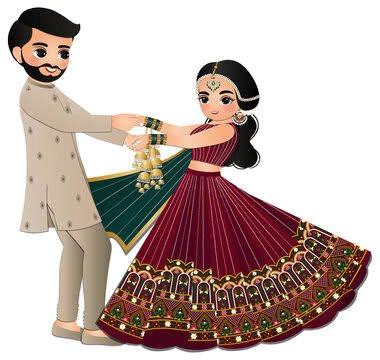
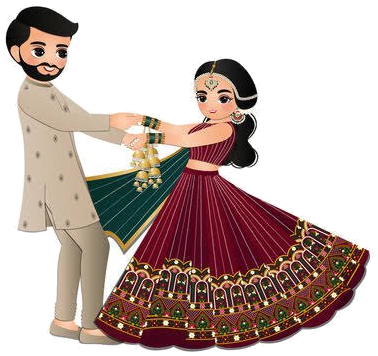
Restore lotus side flower borders and clean high fidelity ceremony couple illustrations

diff --git a/css/style.css b/css/style.css
@@ -499,9 +499,9 @@ body.gate-active {
   left: 0;
   right: 0;
   pointer-events: none;
-  z-index: 1;
+  z-index: 12;
   opacity: 0;
-  transition: opacity 0.5s ease;
+  transition: opacity 0.6s cubic-bezier(0.16, 1, 0.3, 1);
 }
 
 body.borders-active .side-lotus-borders {
@@ -542,13 +542,12 @@ body.borders-active .side-lotus-borders {
   justify-content: center;
   background-color: var(--color-maroon-darkest);
   overflow: hidden;
-  z-index: 5;
 }
 
 /* Central Card */
 .wedding-invitation-container {
   position: relative;
-  z-index: 5;
+  z-index: 15;
   width: 100%;
   max-width: 650px;
   margin: 0 auto;
@@ -849,7 +848,6 @@ body.borders-active .side-lotus-borders {
 
 .countdown-section {
   position: relative;
-  z-index: 5;
   overflow: hidden;
   padding: 3.75rem 1.5rem;
   text-align: center;
@@ -1006,12 +1004,13 @@ body.borders-active .side-lotus-borders {
 /* ----------------- 5. SACRED CEREMONIES ITINERARY ----------------- */
 .itinerary-section {
   position: relative;
-  z-index: 5;
   padding: 4.25rem 1.5rem;
   background-color: var(--color-maroon-darkest);
 }
 
 .itinerary-container {
+  position: relative;
+  z-index: 15;
   max-width: 860px;
   margin: 0 auto;
   padding: 0 1rem;
@@ -1180,13 +1179,14 @@ body.borders-active .side-lotus-borders {
 /* ----------------- 6. VENUES & INTERACTIVE MAP NAVIGATION ----------------- */
 .venues-section {
   position: relative;
-  z-index: 5;
   padding: 4.25rem 1.5rem;
   background: linear-gradient(180deg, var(--color-maroon-darkest) 0%, #1f030a 100%);
   border-top: 1px solid rgba(212, 175, 55, 0.25);
 }
 
 .venues-grid {
+  position: relative;
+  z-index: 15;
   display: grid;
   grid-template-columns: repeat(auto-fit, minmax(280px, 1fr));
   gap: 2rem;
@@ -1347,7 +1347,6 @@ body.borders-active .side-lotus-borders {
 /* ----------------- 7. TRADITIONAL TAMIL PATRIKAI SECTION ----------------- */
 .tamil-invitation-section {
   position: relative;
-  z-index: 5;
   padding: 4.25rem 1.5rem;
   background: 
     radial-gradient(circle at center, rgba(30, 3, 9, 0.6) 0%, rgba(10, 1, 3, 0.98) 75%),
@@ -1358,6 +1357,8 @@ body.borders-active .side-lotus-borders {
 }
 
 .tamil-invitation-container {
+  position: relative;
+  z-index: 15;
   max-width: 760px;
   margin: 0 auto;
   background: linear-gradient(165deg, rgba(20, 2, 7, 0.97), rgba(10, 1, 3, 0.99));
@@ -1502,7 +1503,6 @@ body.borders-active .side-lotus-borders {
 /* ----------------- 8. RSVP & BLESSINGS GUESTBOOK ----------------- */
 .rsvp-section {
   position: relative;
-  z-index: 5;
   padding: 6.5rem 1.5rem;
   background-color: var(--color-maroon-darkest);
   border-top: 1px solid rgba(212, 175, 55, 0.25);
@@ -1513,6 +1513,8 @@ body.borders-active .side-lotus-borders {
 }
 
 .rsvp-container {
+  position: relative;
+  z-index: 15;
   width: 100%;
   max-width: 800px;
   margin: 0 auto;

diff --git a/js/script.js b/js/script.js
@@ -217,8 +217,8 @@
       targetProgress = p;
     }
 
-    // Activate persistent luxury lotus side borders ONLY after video section is completely scrolled past
-    if (rect.bottom <= 0) {
+    // Activate persistent luxury lotus side borders as video transitions into cards
+    if (rect.bottom <= window.innerHeight * 0.8) {
       document.body.classList.add('borders-active');
     } else {
       document.body.classList.remove('borders-active');
